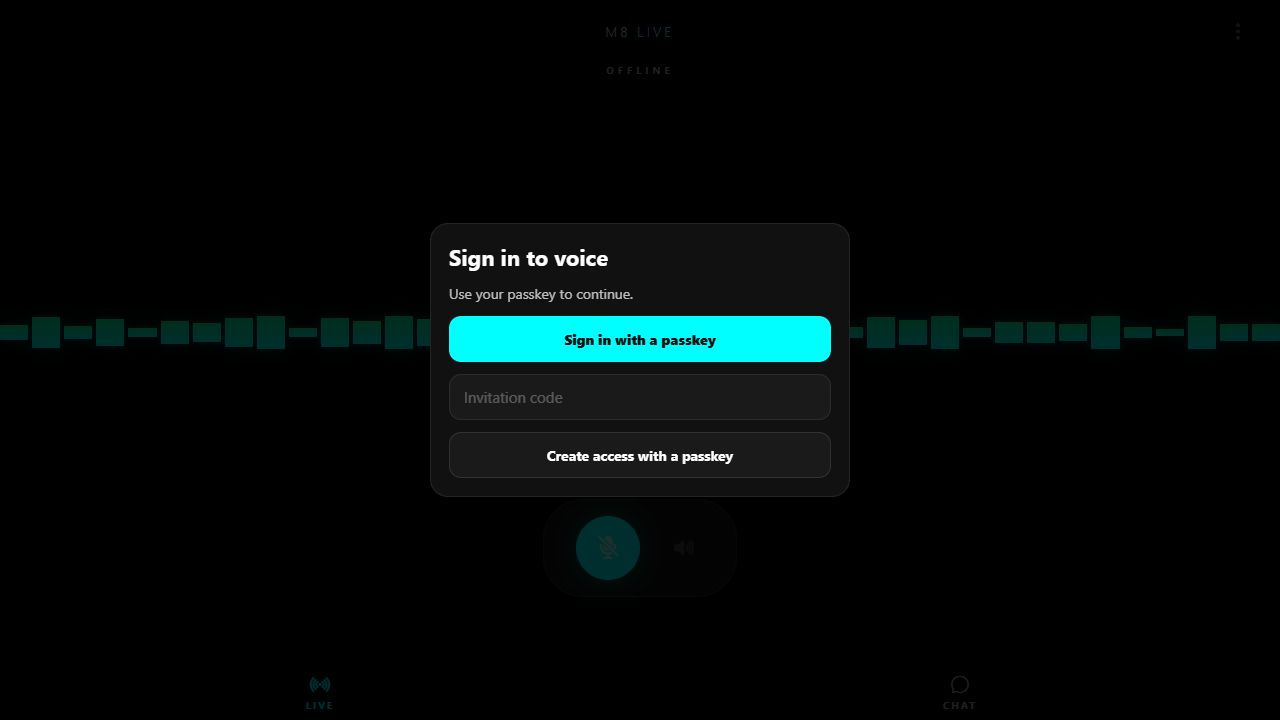
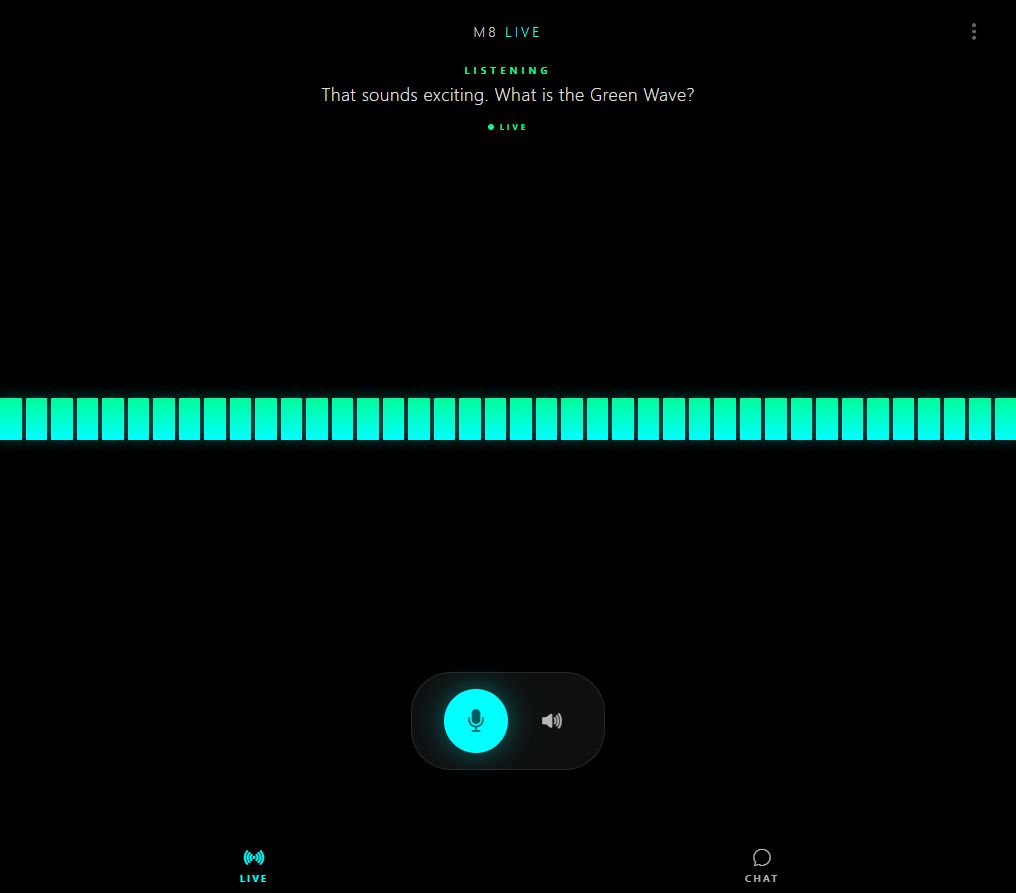
docs(voice): record real passkey and microphone acceptance of the original UI

diff --git a/docs/PRODUCT.md b/docs/PRODUCT.md
@@ -4,16 +4,18 @@ The original Expo screen with its green/cyan audio spectrum, Live/Chat views and
 
 ## Desktop
 
-![Original screen at the passkey access gate on desktop](images/original-wave-desktop.jpg)
+![Published original screen during an authenticated microphone conversation](images/original-wave-desktop.jpg)
 
 ## Phone
 
-![Original screen at the passkey access gate at a 390px viewport](images/original-wave-mobile.jpg)
+![Published original screen at a 390px viewport during the same conversation](images/original-wave-mobile.jpg)
 
 ## Try it
 
 Open [M8 Live](https://voice.kennethyepez.com). Sign in with the existing passkey, then use the microphone control to connect. Chat supports typed turns; the speaker control mutes spoken replies. New private accounts require an administrator invitation and passkey. Live conversations require available session capacity. Settings retains the [previous saved workspace](https://voice.kennethyepez.com/workspace/), without moving or overwriting saved data.
 
-These unmodified browser captures show the restored screen's access gate in an isolated preview. They establish desktop/phone rendering, not a completed authentication or acoustic test. The spectrum component and native visual source are preserved. Holder sign-in, recovery and physical microphone/playback acceptance on this restored screen must be checked at the final secure origin.
+These unmodified captures show the public screen after the holder signed in with the existing passkey on 22 November 2026. The microphone produced the transcript “The Green Wave is back.” and an English response; the holder confirmed recognition and audible playback. The wave responded to microphone input. A separate typed question returned “The original interface is ready.” through the real engine. Opening Settings and returning retained both turns. The microphone was stopped after the check.
+
+The 390px capture is a browser viewport check, not a native phone test. Second-authenticator enrollment/recovery remains incomplete; the original passkey and saved copy remain available. These short observations do not establish recognition accuracy, acoustic quality or latency distributions.
 
 [Watch the previous workspace recording](examples/workspace-walkthrough.mp4). This retained historical recording shows the authored replay now available under `/workspace/`. It does not show the restored screen or a completed human authentication flow.

diff --git a/README.md b/README.md
@@ -8,11 +8,11 @@ This repository exposes application source for architecture review: realtime aud
 
 The original Expo conversation screen, with its green/cyan audio spectrum and glass microphone dock, connected to the private English voice engine and workspace passkeys.
 
-![Original M8 screen at its passkey access gate](docs/images/original-wave-desktop.jpg)
+![Original M8 screen during a real microphone conversation](docs/images/original-wave-desktop.jpg)
 
 [Open the English workspace](https://voice.kennethyepez.com) · [Run locally](demo/README.md) · [Desktop and phone views](docs/PRODUCT.md) · [Engineering case](docs/CASE-STUDY.md) · [Watch the workspace recording](https://raw.githubusercontent.com/m8appz-dotcom/m8-live-voice-assistant-public/main/docs/examples/workspace-walkthrough.mp4)
 
-The captures show the restored screen in an isolated browser preview. The retained recording shows the previous authored example workflow, available at [Saved workspace](https://voice.kennethyepez.com/workspace/). It does not demonstrate the restored screen's live microphone or a human passkey ceremony.
+The captures show the published screen after real passkey sign-in and a microphone conversation. On 22 November 2026, the holder confirmed English recognition and audible speech. A separate typed question also returned through the real engine, and opening Settings then returning retained the conversation. Second-authenticator recovery and native device acceptance remain pending. The retained recording shows the previous authored example workflow, available at [Saved workspace](https://voice.kennethyepez.com/workspace/); it does not depict this restored screen.
 
 Returning users sign in with their existing passkey at the same HTTPS origin. New private accounts require an administrator invitation and a passkey. Voice starts explicitly from the microphone control and uses the bounded private engine. Settings retains access to the previous saved workspace; its data is not migrated or overwritten. The hosted export uses `/auth/` and `/engine/live`; native and separately operated bridge clients retain their existing paths. See [hosting, recovery and limits](demo/HOSTING.md).
 

diff --git a/docs/CASE-STUDY.md b/docs/CASE-STUDY.md
@@ -44,4 +44,6 @@ Read [the private pathway](SPARK-VOICE.md), [server source](../server/spark-voic
 
 ## Remaining acceptance
 
-The original Expo screen is restored through a hosted export, preserving its spectrum and native visual sources. Its desktop/phone access gate and Settings were checked in an isolated browser preview. The holder previously registered a real credential and saved/loaded a private copy at the same public origin. Those identities and data are retained; sign-in and second-passkey recovery on the restored screen still require holder acceptance. Physical microphone clarity, audible playback and native device acceptance remain pending. Tests, the JVM parser check and a web export do not replace those steps. A representative current-release benchmark remains separate from the historical samples above. Only the isolated voice workspace is updated; existing inference services, production data and configuration remain unchanged.
+The original Expo screen is published through a hosted export, preserving its spectrum and native visual sources. On 22 November 2026, the holder signed in at the same public origin with the existing passkey and confirmed English microphone recognition and audible playback. The browser showed the controlled transcript and real model reply; a separate typed turn also returned through the engine. Settings navigation retained that conversation. Desktop and 390px browser views were inspected, and microphone capture was stopped afterward. The existing account/credential/workspace file remained byte-for-byte unchanged during cutover.
+
+Second-authenticator enrollment/recovery and native device acceptance remain incomplete. The holder's brief recognition/playback check does not establish general acoustic quality or a current-release latency benchmark. Tests, the JVM parser check and a web export do not replace those remaining checks. Only the isolated voice workspace was updated; other Spark services and private inference configuration were preserved.
